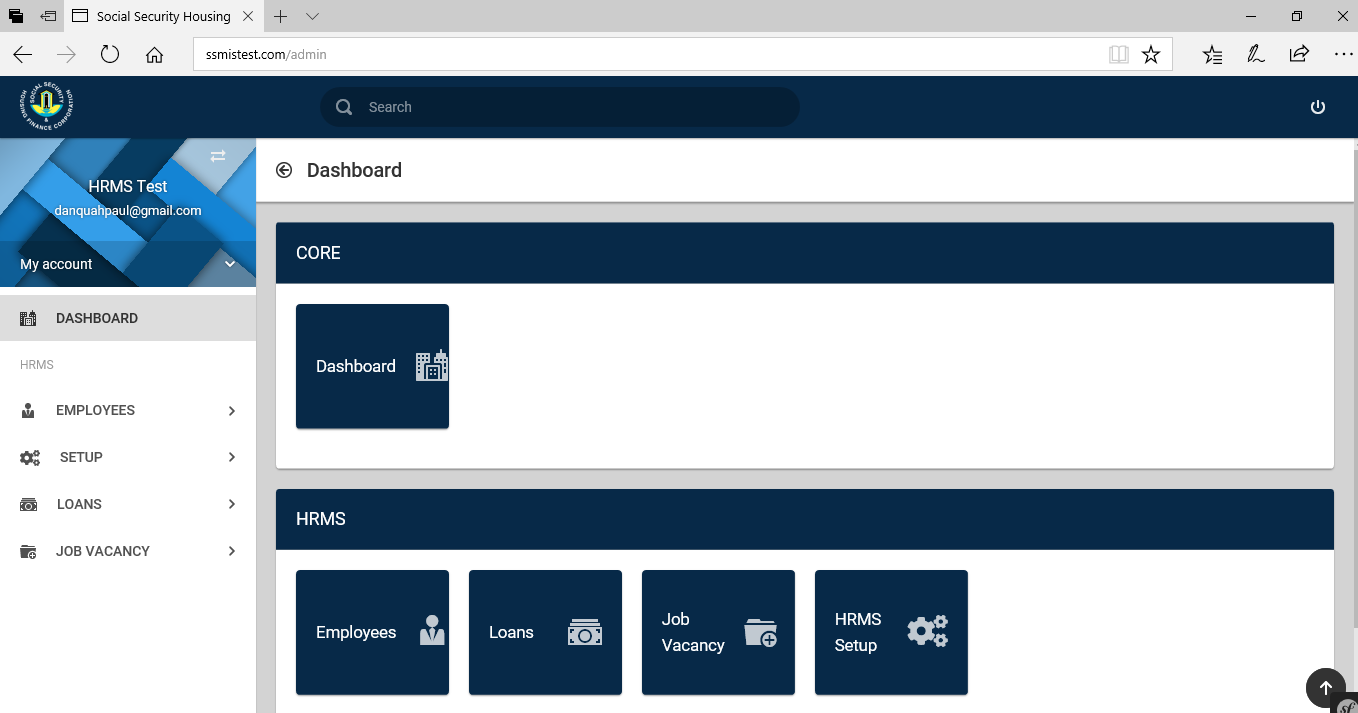
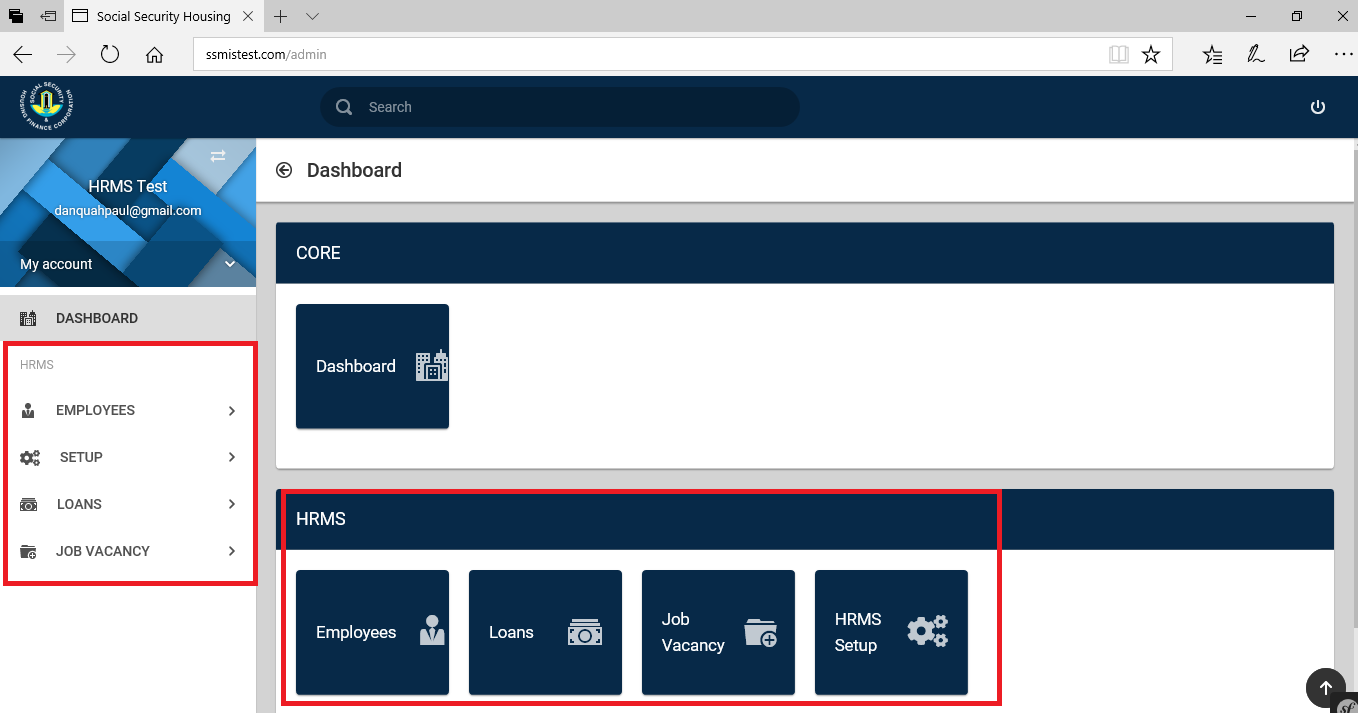
adds some more detail to hrms. stops at promotions

Changed region(s): [[0.0, 0.4628, 0.7423, 1.0]]

diff --git a/docs/hrms.md b/docs/hrms.md
@@ -106,6 +106,98 @@ The Human Resource Management System (HRMS) is a system designed to assist manag
 
 
 ## Working With Employees’ Information
+
+![HRMS Dashboard](img/hrms-dashboard.png){ align=center }
+
+The higlighted areas, in red show the HRMS module.
+Several sub modules make up the HRMS platform.
+First is the Employee sub-module. Clikcing on the Employee button ,  brings up a page containing all employees’ information.
+See Image below.
+
+![HRMS Dashboard Employee](img/hrms-employee.png){ align=center }
+
+The various actions you can take on this page are as listed:
+- access/edit/add/delete employee bank details.
+- access/edit/add/delete employee dependants’ details.
+- access/edit/add/delete employee education details.
+- access/edit/add/delete/view employee employment details.
+- access/edit/add/delete information on employees’ next of kin.
+- access/edit/add/delete information on employees’ in house training.
+- access/edit/add/delete information on employees’ work experience.
+- access/edit/add/delete  information on employees’ promotion(s). 
+- access/edit/add/delete  information on employees’ resignation(s). 
+- access/edit/add /delete information on employees’  termination(s).
+
+### Employee Bank Details
+Clicking on the bank details button to **access/edit/add/delete employee bank details** opens a form as shown below;
+On this page, you can add  an employees bank details, you can filter out or search for a specific employees details by typing out related information: the name, the branch, account number etc and as you type, the information is filtered and result displayed. On this same page you can edit as well as delete a record. You are at liberty to decide on the number of visible rows. A max of 100 is allowed. This form also allows you to generate and download a employees bank details as PDF, CSV, EXCEL or COPY displayed rows to your clipboard.
+
+![HRMS Dashboard Employee Bank](img/hrms-employee-bank.png){ align=center }
+
+Clicking to add/edit an employee’s bank details opens a form as shown in the Figues below.
+When adding/editing an employee’s bank details, information for fields marked with <span style="color:red">*</span> must be provided. 
+
+![HRMS Dashboard Employee Bank](img/hrms-employee-bank-add.png){ align=center }
+
+### Employee Dependants
+
+![HRMS Dashboard Employee Bank](img/hrms-employee-dependants.png){ align=center }
+
+Clicking on the dependents button to **access/edit/add/delete employee dependants’ details** opens a table as shown in the figure below. 
+
+![HRMS Dashboard Employee Bank](img/hrms-employee-dependants-show.png){ align=center }
+
+On this page,  you can add, edit or delete a dependant, filter acros the list of dependants, limit or increase the visible dependants, export as PDF, EXCEL,CSV or COPY to your clipboard rows of visible dependants.
+The form below shows the form needed for adding a dependant. Information for fields marked with <span style="color:red"> *</span> must be provided.
+
+![HRMS Dashboard Employee Bank](img/hrms-employee-dependants-add.png){ align=center }
+
+### Education History
+
+![HRMS Dashboard Employee Bank](img/hrms-employee-educationhistory.png){ align=center }
+
+Clicking on the education history button to access/edit/add/delete details of an employee’s education opens a table as shown in the figure below.
+
+![HRMS Dashboard Employee Bank](img/hrms-employee-educationhistory-show.png){ align=center }
+
+On this page,  you can add, edit or delete an employees education history, filter acros the list of records, limit or increase the visible records, export as PDF, EXCEL,CSV or COPY to your clipboard rows of visible records.
+The form below shows the form needed for adding an education history record. Information for fields marked with <span style="color:red"> *</span> must be provided
+
+![HRMS Dashboard Employee Bank](img/hrms-employee-educationhistory-add.png){ align=center }
+
+### Employee
+
+![HRMS Dashboard Employee Bank](img/hrms-employee-start.png){ align=center }
+
+Clicking on the employees button to access/edit/add/delete/view details of an employee opens a table as shown in the image below.
+
+![HRMS Dashboard Employee Bank](img/hrms-employee-show.png){ align=center }
+
+The HUD (Heads Up Display), on the page shows:
+
+-  <span style="color:red">1</span>.Displays total number of permanent staff.
+-  <span style="color:red">2</span>.Displays total number of contract staff.
+-  <span style="color:red">3</span>.Displays total number of interns. 
+
+The new addition to the action buttons is the **view button**.  This allows you to view employee employment details.
+
+### Next of Kin
+![HRMS Dashboard Employee Bank](img/hrms-employee-nextofkin.png){ align=center }
+
+Clicking on the next of kin button to access/edit/add/delete details of an employee’s next of kin opens a table as shown in figure below
+
+![HRMS Dashboard Employee Bank](img/hrms-employee-nextofkin-add.png){ align=center }
+
+On this page,  you can add, edit or delete an employees next of kin, filter acros the list of records, limit or increase the visible records, export as PDF, EXCEL,CSV or COPY to your clipboard rows of visible records.
+Clicking to add/edit an employee’s next of kin’s details opens a form as shown in figure below.
+When adding/editing an employee’s next of kin’s details,information for fields marked with <span style="color:red"> *</span> must be provided.
+
+![HRMS Dashboard Employee Bank](img/hrms-employee-nextofkin-show.png){ align=center }
+
+
+### Promotions
+
+
 ## Working With The Human Resource Management System Setup
 ## Working With Loans
 
